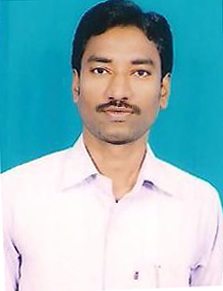
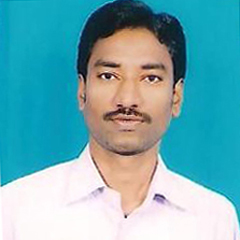
css updated

diff --git a/index.html b/index.html
@@ -669,12 +669,6 @@
                             <p>
                                 S/o satyam D. No. 21-18, G Agraharam, Rammandiram Street, Cheepurupalli, Vizianagaram dist Andhra Pradesh – 535128.
                             </p>
-                            <div class="social">
-                                <a href=""><i class="bi bi-twitter"></i></a>
-                                <a href=""><i class="bi bi-facebook"></i></a>
-                                <a href=""><i class="bi bi-instagram"></i></a>
-                                <a href=""><i class="bi bi-linkedin"></i></a>
-                            </div>
                         </div>
                     </div>
 
@@ -694,7 +688,7 @@
                             <h4>M Lakshmnarao</h4>
                             <span>Secratary</span>
                             <p>
-                                G. Agraharam Cheepurupalli Mandalam Vizianagaram -535128
+                                Cheepurupalli Mandalam Vizianagaram -535128
                             </p>
                         </div>
                     </div>
@@ -704,7 +698,7 @@
                             <h4>SV Naidu</h4>
                             <span>Joint-Secratary</span>
                             <p>
-                                G. Agraharam Cheepurupalli Mandalam Vizianagaram -535128
+                                Cheepurupalli Mandalam Vizianagaram -535128
                             </p>
                         </div>
                     </div>

diff --git a/assets/css/style.css b/assets/css/style.css
@@ -997,6 +997,11 @@ section {
 
 .team .member img {
     max-width: 100%;
+    top: 0;
+    width: 240px;
+    height: 240px;
+    overflow: hidden;
+    object-fit: cover;
     margin: 0 0 30px 0;
 }
 
